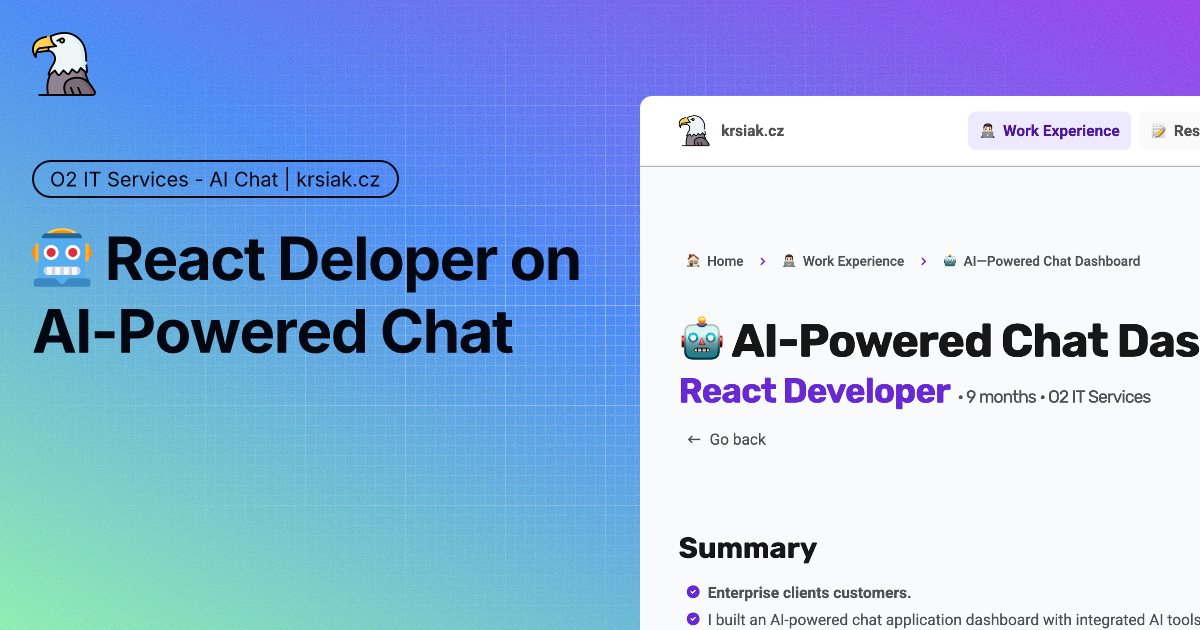
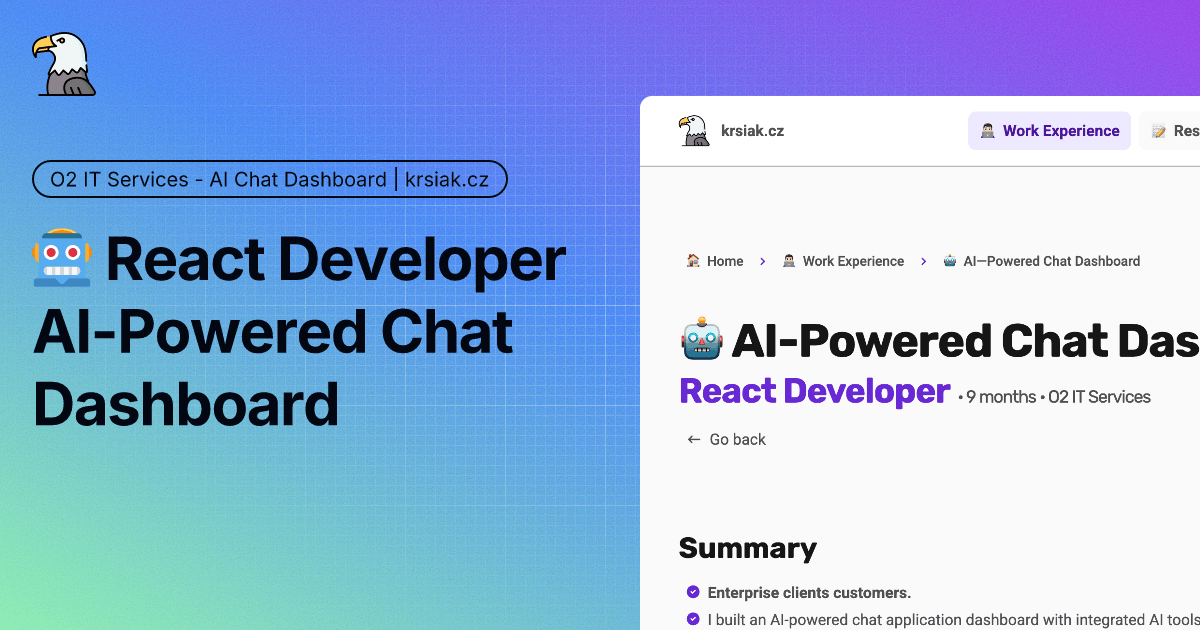
feature(work): ✨ project AI Public Tenders Portal

Changed region(s): [[0.0308, 0.6032, 0.3083, 0.6937], [0.2775, 0.3619, 0.4933, 0.4825], [0.2158, 0.2413, 0.4317, 0.3317]]

diff --git a/lib/data/pages/projects/work/projects-overview/vite/workViteO2itsPublicTendersPortal.ts b/lib/data/pages/projects/work/projects-overview/vite/workViteO2itsPublicTendersPortal.ts
@@ -1,0 +1,56 @@
+import { iconsSkillsProjectsWorkO2itsPublicTendersPortal } from '@/lib/data/pages/projects/work/projects-overview/skillsProjectsWork'
+
+import { PROJECT_ID } from '@/lib/utils/constants/ids/projectIds'
+import { SkillCategoryEnum, SkillsEnum } from '@/lib/utils/typeDefinitions/enums'
+import { Project } from '@/lib/utils/typeDefinitions/interfaces'
+
+import { WORK_PROJECTS_OVERVIEW } from '@/localization/data/projects/workProjects'
+
+// o2its public tenders portal
+import o2itsPublicTendersPortal from '@/public/images/webp/projects/work/o2its-public-tenders-portal/o2its-public-tenders-portal-1.webp'
+import o2itsPublicTendersPortalProjectPreview from '@/public/images/webp/projects/work/o2its-public-tenders-portal/o2its-public-tenders-portal-project-preview.webp'
+
+import { ARIA_LABELS, ICON_EMOJI } from '@/localization'
+
+export const workViteO2itsPublicTendersPortal: Project = {
+  id: PROJECT_ID.work.o2itsPublicTendersPortal,
+  isFeatured: false,
+  image: o2itsPublicTendersPortalProjectPreview.src,
+  galleryImages: [{ id: 0, src: o2itsPublicTendersPortal.src }],
+  icon: ICON_EMOJI.robot,
+  ariaLabel: ARIA_LABELS.emoji.robot,
+  title: WORK_PROJECTS_OVERVIEW.O2itsPublicTendersPortal.title,
+  company: WORK_PROJECTS_OVERVIEW.O2itsPublicTendersPortal.company,
+  role: WORK_PROJECTS_OVERVIEW.O2itsPublicTendersPortal.role,
+  years: WORK_PROJECTS_OVERVIEW.O2itsPublicTendersPortal.years,
+  description: WORK_PROJECTS_OVERVIEW.O2itsPublicTendersPortal.description,
+  skillsIcons: iconsSkillsProjectsWorkO2itsPublicTendersPortal,
+  skillsOverview: [
+    {
+      id: 0,
+      description: SkillCategoryEnum.FrontEnd,
+      skillsList: [
+        SkillsEnum.TypeScript,
+        SkillsEnum.React,
+        SkillsEnum.MaterialUI,
+        SkillsEnum.ReactHookForm,
+        SkillsEnum.Zod,
+      ],
+    },
+    {
+      id: 1,
+      description: SkillCategoryEnum.AI,
+      skillsList: [SkillsEnum.AI],
+    },
+  ],
+  linkText: WORK_PROJECTS_OVERVIEW.O2itsPublicTendersPortal.linkText,
+  projectLinks: [
+    {
+      urlText: WORK_PROJECTS_OVERVIEW.O2itsPublicTendersPortal.projectLinks[0].urlText,
+      url: WORK_PROJECTS_OVERVIEW.O2itsPublicTendersPortal.projectLinks[0].url,
+      dataTestId: WORK_PROJECTS_OVERVIEW.O2itsPublicTendersPortal.projectLinks[0].dataTestId,
+    },
+  ],
+  customers: WORK_PROJECTS_OVERVIEW.O2itsPublicTendersPortal.customers,
+  linkProjectPage: WORK_PROJECTS_OVERVIEW.O2itsPublicTendersPortal.linkProjectPage,
+}

diff --git a/lib/data/pages/projects/work/o2its-public-tenders-portal.ts b/lib/data/pages/projects/work/o2its-public-tenders-portal.ts
@@ -1,0 +1,43 @@
+import { Section } from '@/lib/utils/typeDefinitions/interfaces'
+
+import { PROJECTS_WORK } from '@/localization/data/projects/workProjects'
+
+export const sections: Section[] = [
+  {
+    id: 0,
+    title: PROJECTS_WORK.O2itsPublicTendersPortal.sections.responsibility.title,
+    titleHighlight: '',
+    items: [
+      {
+        id: '0-0',
+        text: PROJECTS_WORK.O2itsPublicTendersPortal.sections.responsibility.items[0],
+      },
+    ],
+  },
+  {
+    id: 1,
+    title: PROJECTS_WORK.O2itsPublicTendersPortal.sections.features.title,
+    titleHighlight: '',
+    items: [
+      {
+        id: '1-0',
+        text: PROJECTS_WORK.O2itsPublicTendersPortal.sections.features.items[0],
+      },
+      {
+        id: '1-1',
+        text: PROJECTS_WORK.O2itsPublicTendersPortal.sections.features.items[1],
+      },
+    ],
+  },
+  {
+    id: 2,
+    title: PROJECTS_WORK.O2itsPublicTendersPortal.sections.note.title,
+    titleHighlight: '',
+    items: [
+      {
+        id: '2-0',
+        text: PROJECTS_WORK.O2itsPublicTendersPortal.sections.note.items[0],
+      },
+    ],
+  },
+]

diff --git a/localization/data/projects/workProjects.ts b/localization/data/projects/workProjects.ts
@@ -32,6 +32,29 @@ export const PROJECTS_WORK = {
       },
     },
   },
+  O2itsPublicTendersPortal: {
+    sections: {
+      responsibility: {
+        title: 'My Job',
+        items: [
+          'I\u00A0designed structured prompts to\u00A0ensure consistent and\u00A0safe LLM outputs for\u00A0Public Tenders Portal application.',
+        ],
+      },
+      features: {
+        title: 'Key Contributions',
+        items: [
+          'I\u00A0created AI\u00A0prompt engineering patterns for\u00A0reliable and\u00A0predictable AI\u00A0responses.',
+          'I\u00A0refactored and\u00A0modernized the\u00A0full frontend architecture and\u00A0application setup.',
+        ],
+      },
+      note: {
+        title: 'Screenshots are confidential',
+        items: [
+          'Due to\u00A0confidentiality, I\u00A0cannot share actual screenshots from\u00A0the\u00A0enterprise application.',
+        ],
+      },
+    },
+  },
   smartsuppWeb: {
     sections: {
       responsibility: {
@@ -219,6 +242,24 @@ export const WORK_PROJECTS_OVERVIEW = {
     ],
     customers: 'Enterprise clients',
     linkProjectPage: PAGES_URL.workO2itsAiPoweredChatDashboard,
+  },
+  O2itsPublicTendersPortal: {
+    title: 'AI Public Tenders Portal',
+    company: 'O2\u00A0IT\u00A0Services',
+    role: 'React Developer',
+    years: '9\u00A0months',
+    description:
+      'I\u00A0designed structured AI\u00A0prompts and\u00A0refactored the\u00A0frontend architecture for\u00A0a\u00A0Public Tenders Portal application.',
+    linkText: 'Project details',
+    projectLinks: [
+      {
+        urlText: 'Website',
+        url: PROJECTS_WORK_URLS.workO2itsExternal,
+        dataTestId: DATA_TEST_IDS.links.O2ITS_PUBLIC_TENDERS_PORTAL,
+      },
+    ],
+    customers: 'Enterprise clients',
+    linkProjectPage: PAGES_URL.workO2itsPublicTendersPortal,
   },
   moravia: {
     title: 'Windows',

diff --git a/__tests__/playwright/layout/page-navigation/navigationProjectSubpages.spec.ts b/__tests__/playwright/layout/page-navigation/navigationProjectSubpages.spec.ts
@@ -5,7 +5,7 @@ import { PAGES_URL } from '@/__tests__/playwright/lib/utils/constants/urls/e2eUr
 import { getDataTestId } from '@/__tests__/playwright/lib/utils/helpers/getDataTestId'
 
 test.describe('Navigation - Work Project Subpages', () => {
-  test('O2 ITS AI-Powered Chat Dashboard: navigates to next (Smartsupp Dashboard)', async ({
+  test('O2 ITS AI-Powered Chat Dashboard: navigates to next (Public Tenders Portal)', async ({
     page,
   }) => {
     await page.goto(PAGES_URL.workO2itsAiPoweredChatDashboard)
@@ -15,12 +15,36 @@ test.describe('Navigation - Work Project Subpages', () => {
     )
     await expect(nextLink).toBeVisible()
     await nextLink.click()
+    await expect(page).toHaveURL(new RegExp(PAGES_URL.workO2itsPublicTendersPortal))
+  })
+
+  test('O2 ITS Public Tenders Portal: navigates to previous (AI-Powered Chat Dashboard)', async ({
+    page,
+  }) => {
+    await page.goto(PAGES_URL.workO2itsPublicTendersPortal)
+
+    const previousLink = page.locator(
+      getDataTestId(DATA_TEST_IDS.projects.work.O2itsPublicTendersPortal.previous),
+    )
+    await expect(previousLink).toBeVisible()
+    await previousLink.click()
+    await expect(page).toHaveURL(new RegExp(PAGES_URL.workO2itsAiPoweredChatDashboard))
+  })
+
+  test('O2 ITS Public Tenders Portal: navigates to next (Smartsupp Dashboard)', async ({
+    page,
+  }) => {
+    await page.goto(PAGES_URL.workO2itsPublicTendersPortal)
+
+    const nextLink = page.locator(
+      getDataTestId(DATA_TEST_IDS.projects.work.O2itsPublicTendersPortal.next),
+    )
+    await expect(nextLink).toBeVisible()
+    await nextLink.click()
     await expect(page).toHaveURL(new RegExp(PAGES_URL.workSmartsuppDashboard))
   })
 
-  test('Smartsupp Dashboard: navigates to previous (O2 ITS AI-Powered Chat Dashboard)', async ({
-    page,
-  }) => {
+  test('Smartsupp Dashboard: navigates to previous (Public Tenders Portal)', async ({ page }) => {
     await page.goto(PAGES_URL.workSmartsuppDashboard)
 
     const previousLink = page.locator(
@@ -28,7 +52,7 @@ test.describe('Navigation - Work Project Subpages', () => {
     )
     await expect(previousLink).toBeVisible()
     await previousLink.click()
-    await expect(page).toHaveURL(new RegExp(PAGES_URL.workO2itsAiPoweredChatDashboard))
+    await expect(page).toHaveURL(new RegExp(PAGES_URL.workO2itsPublicTendersPortal))
   })
 
   test('Smartsupp Dashboard: navigates to next (Komercni Banka)', async ({ page }) => {

diff --git a/localization/metadata/meta-o2its-public-tenders-portal.ts b/localization/metadata/meta-o2its-public-tenders-portal.ts
@@ -1,0 +1,27 @@
+import { COMMON_VALUES } from '../ui/common'
+
+export const META_O2ITS_PUBLIC_TENDERS_PORTAL = {
+  title: `AI Public Tenders Portal | ${COMMON_VALUES.nameDanielKrsiak} — ${COMMON_VALUES.reactDeveloper}`,
+  description:
+    'I designed structured AI prompts and refactored the frontend architecture for Public Tenders Portal application.',
+  keywords: {
+    nameDanielKrsiak: COMMON_VALUES.nameDanielKrsiak,
+    reactDeveloper: COMMON_VALUES.reactDeveloper,
+    nextJsDeveloper: COMMON_VALUES.nextJsDeveloper,
+    o2its: COMMON_VALUES.o2its,
+    aiPowered: COMMON_VALUES.aiPowered,
+    publicTenders: COMMON_VALUES.publicTenders,
+    promptEngineering: COMMON_VALUES.promptEngineering,
+    llm: COMMON_VALUES.llm,
+    typeScript: COMMON_VALUES.typeScript,
+    react: COMMON_VALUES.react,
+    next: COMMON_VALUES.next,
+    materialUi: COMMON_VALUES.materialUi,
+    reactHookForm: COMMON_VALUES.reactHookForm,
+    zod: COMMON_VALUES.zod,
+    graphQL: COMMON_VALUES.graphql,
+    zustand: COMMON_VALUES.zustand,
+    aiTools: COMMON_VALUES.aiTools,
+    figma: COMMON_VALUES.figma,
+  },
+}

diff --git a/lib/data/metadata/pages/projects/work/metaDataO2itsPublicTendersPortal.ts b/lib/data/metadata/pages/projects/work/metaDataO2itsPublicTendersPortal.ts
@@ -1,0 +1,15 @@
+import { PAGES_URL } from '@/lib/utils/constants/urls/pageUrls'
+import { createPageMetadata } from '@/lib/utils/helpers/metadata/createPageMetadata'
+
+import O2itsPublicTendersPortalOG from '@/public/images/png/open-graph/pages/work-experience/o2its-public-tenders-portal/o2its-public-tenders-portal-og.png'
+import O2itsPublicTendersPortalTwitter from '@/public/images/png/open-graph/pages/work-experience/o2its-public-tenders-portal/o2its-public-tenders-portal-twitter.png'
+
+import { META_O2ITS_PUBLIC_TENDERS_PORTAL } from '@/localization'
+
+export const metaDataO2itsPublicTendersPortal = createPageMetadata({
+  meta: META_O2ITS_PUBLIC_TENDERS_PORTAL,
+  pageUrl: PAGES_URL.workO2itsPublicTendersPortal,
+
+  ogImage: O2itsPublicTendersPortalOG,
+  twitterImage: O2itsPublicTendersPortalTwitter,
+})

diff --git a/lib/data/pages/projects/work/projects-overview/skillsProjectsWork.ts b/lib/data/pages/projects/work/projects-overview/skillsProjectsWork.ts
@@ -15,6 +15,15 @@ export const iconsSkillsProjectsWorkO2its: Icon[] = getSkillsIcons([
   SkillIconEnum.Figma,
 ])
 
+export const iconsSkillsProjectsWorkO2itsPublicTendersPortal: Icon[] = getSkillsIcons([
+  SkillIconEnum.TypeScript,
+  SkillIconEnum.React,
+  SkillIconEnum.MaterialUI,
+  SkillIconEnum.ReactHookForm,
+  SkillIconEnum.Zod,
+  SkillIconEnum.AI,
+])
+
 export const iconsSkillsProjectsWorkSmartsuppDashboard: Icon[] = getSkillsIcons([
   SkillIconEnum.TypeScript,
   SkillIconEnum.React,

diff --git a/app/work-experience/page.tsx b/app/work-experience/page.tsx
@@ -19,6 +19,7 @@ import { projectsWorkLocalization } from '@/lib/data/pages/projects/work/project
 import { projectsWorkNext } from '@/lib/data/pages/projects/work/projects-overview/next/workNext'
 import { projectsWorkQA } from '@/lib/data/pages/projects/work/projects-overview/quality-assurance/workQA'
 import { projectsWorkReact } from '@/lib/data/pages/projects/work/projects-overview/react/workReact'
+import { projectsWorkVite } from '@/lib/data/pages/projects/work/projects-overview/vite/workVite'
 import { projectsWorkWordPress } from '@/lib/data/pages/projects/work/projects-overview/wordpress/workWordpress'
 
 import { ID } from '@/lib/utils/constants/ids/elementIds'
@@ -53,6 +54,13 @@ const ProjectsWork = () => {
           sectionId={ID.section.next}
           sectionText={COMMON_VALUES.next}
           projectData={projectsWorkNext}
+        />
+
+        {/* VITE */}
+        <ProjectSection
+          sectionId={ID.section.vite}
+          sectionText={COMMON_VALUES.vite}
+          projectData={projectsWorkVite}
         />
 
         {/* REACT */}

diff --git a/__tests__/playwright/lib/utils/constants/ids/dataTestIds.ts b/__tests__/playwright/lib/utils/constants/ids/dataTestIds.ts
@@ -24,6 +24,7 @@ const LINKS = {
 
   // Work experience pages
   O2ITS_AI_POWERED_CHAT_DASHBOARD: 'o2its-ai-powered-chat-dashboard',
+  O2ITS_PUBLIC_TENDERS_PORTAL: 'o2its-public-tenders-portal',
   SMARTSUPP_DASHBOARD: 'smartsupp-dashboard',
   KOMERCNI_BANKA: 'komercni-banka',
   KOMERCNI_BANKA_BRANCHES_AND_ATMS: 'komercni-banka-branches-and-atms',
@@ -171,6 +172,10 @@ const WORK_PROJECTS = {
   },
   O2itsAiPoweredChatDashboard: {
     previous: '',
+    next: `${NAVIGATION.NEXT}-${LINKS.O2ITS_PUBLIC_TENDERS_PORTAL}`,
+  },
+  O2itsPublicTendersPortal: {
+    previous: `${NAVIGATION.PREVIOUS}-${LINKS.O2ITS_AI_POWERED_CHAT_DASHBOARD}`,
     next: `${NAVIGATION.NEXT}-${LINKS.SMARTSUPP_DASHBOARD}`,
   },
   kooperativa: {
@@ -187,7 +192,7 @@ const WORK_PROJECTS = {
       next: `${NAVIGATION.NEXT}-${LINKS.SMARTSUPP_HELP}`,
     },
     dashboard: {
-      previous: `${NAVIGATION.PREVIOUS}-${LINKS.O2ITS_AI_POWERED_CHAT_DASHBOARD}`,
+      previous: `${NAVIGATION.PREVIOUS}-${LINKS.O2ITS_PUBLIC_TENDERS_PORTAL}`,
       next: `${NAVIGATION.NEXT}-${LINKS.KOMERCNI_BANKA}`,
     },
     help: {

diff --git a/lib/data/pages/projects/work/projects-overview/vite/workVite.ts b/lib/data/pages/projects/work/projects-overview/vite/workVite.ts
@@ -1,0 +1,5 @@
+import { workViteO2itsPublicTendersPortal } from '@/lib/data/pages/projects/work/projects-overview/vite/workViteO2itsPublicTendersPortal'
+
+import { Project } from '@/lib/utils/typeDefinitions/interfaces'
+
+export const projectsWorkVite: Project[] = [workViteO2itsPublicTendersPortal]

diff --git a/app/work-experience/smartsupp-dashboard/page.tsx b/app/work-experience/smartsupp-dashboard/page.tsx
@@ -37,9 +37,9 @@ const ProjectWorkSmartsuppDashboard = () => {
       sections={sections}
       PageNavigation={
         <PageNavigation
-          linkPrevious={PAGES_URL.workO2itsAiPoweredChatDashboard}
+          linkPrevious={PAGES_URL.workO2itsPublicTendersPortal}
           iconPrevious={ICON_EMOJI.robot}
-          namePrevious={TEXT.O2itsAiPoweredChatDashboard}
+          namePrevious={TEXT.O2itsPublicTendersPortal}
           dataTestIdPrevious={DATA_TEST_IDS.projects.work.smartsupp.dashboard.previous}
           linkNext={PAGES_URL.workKomercniBanka}
           iconNext={ICON_EMOJI.bank}

diff --git a/localization/ui/common.ts b/localization/ui/common.ts
@@ -29,6 +29,7 @@ export const COMMON_VALUES = {
   redux: 'Redux',
   next: 'Next.js',
   nextShort: 'Next',
+  vite: 'Vite',
   jest: 'JEST',
   cypress: 'Cypress',
   playwright: 'Playwright',
@@ -55,6 +56,9 @@ export const COMMON_VALUES = {
   o2its: 'O2 IT Services',
   aiPowered: 'AI-Powered',
   chatDashboard: 'Chat Dashboard',
+  publicTenders: 'Public Tenders Portal',
+  promptEngineering: 'Prompt Engineering',
+  llm: 'LLM',
   aiTools: 'AI Tools',
   qaAutomationTesting: `QA Automation &\u00A0Testing`,
   localization: 'Localization',